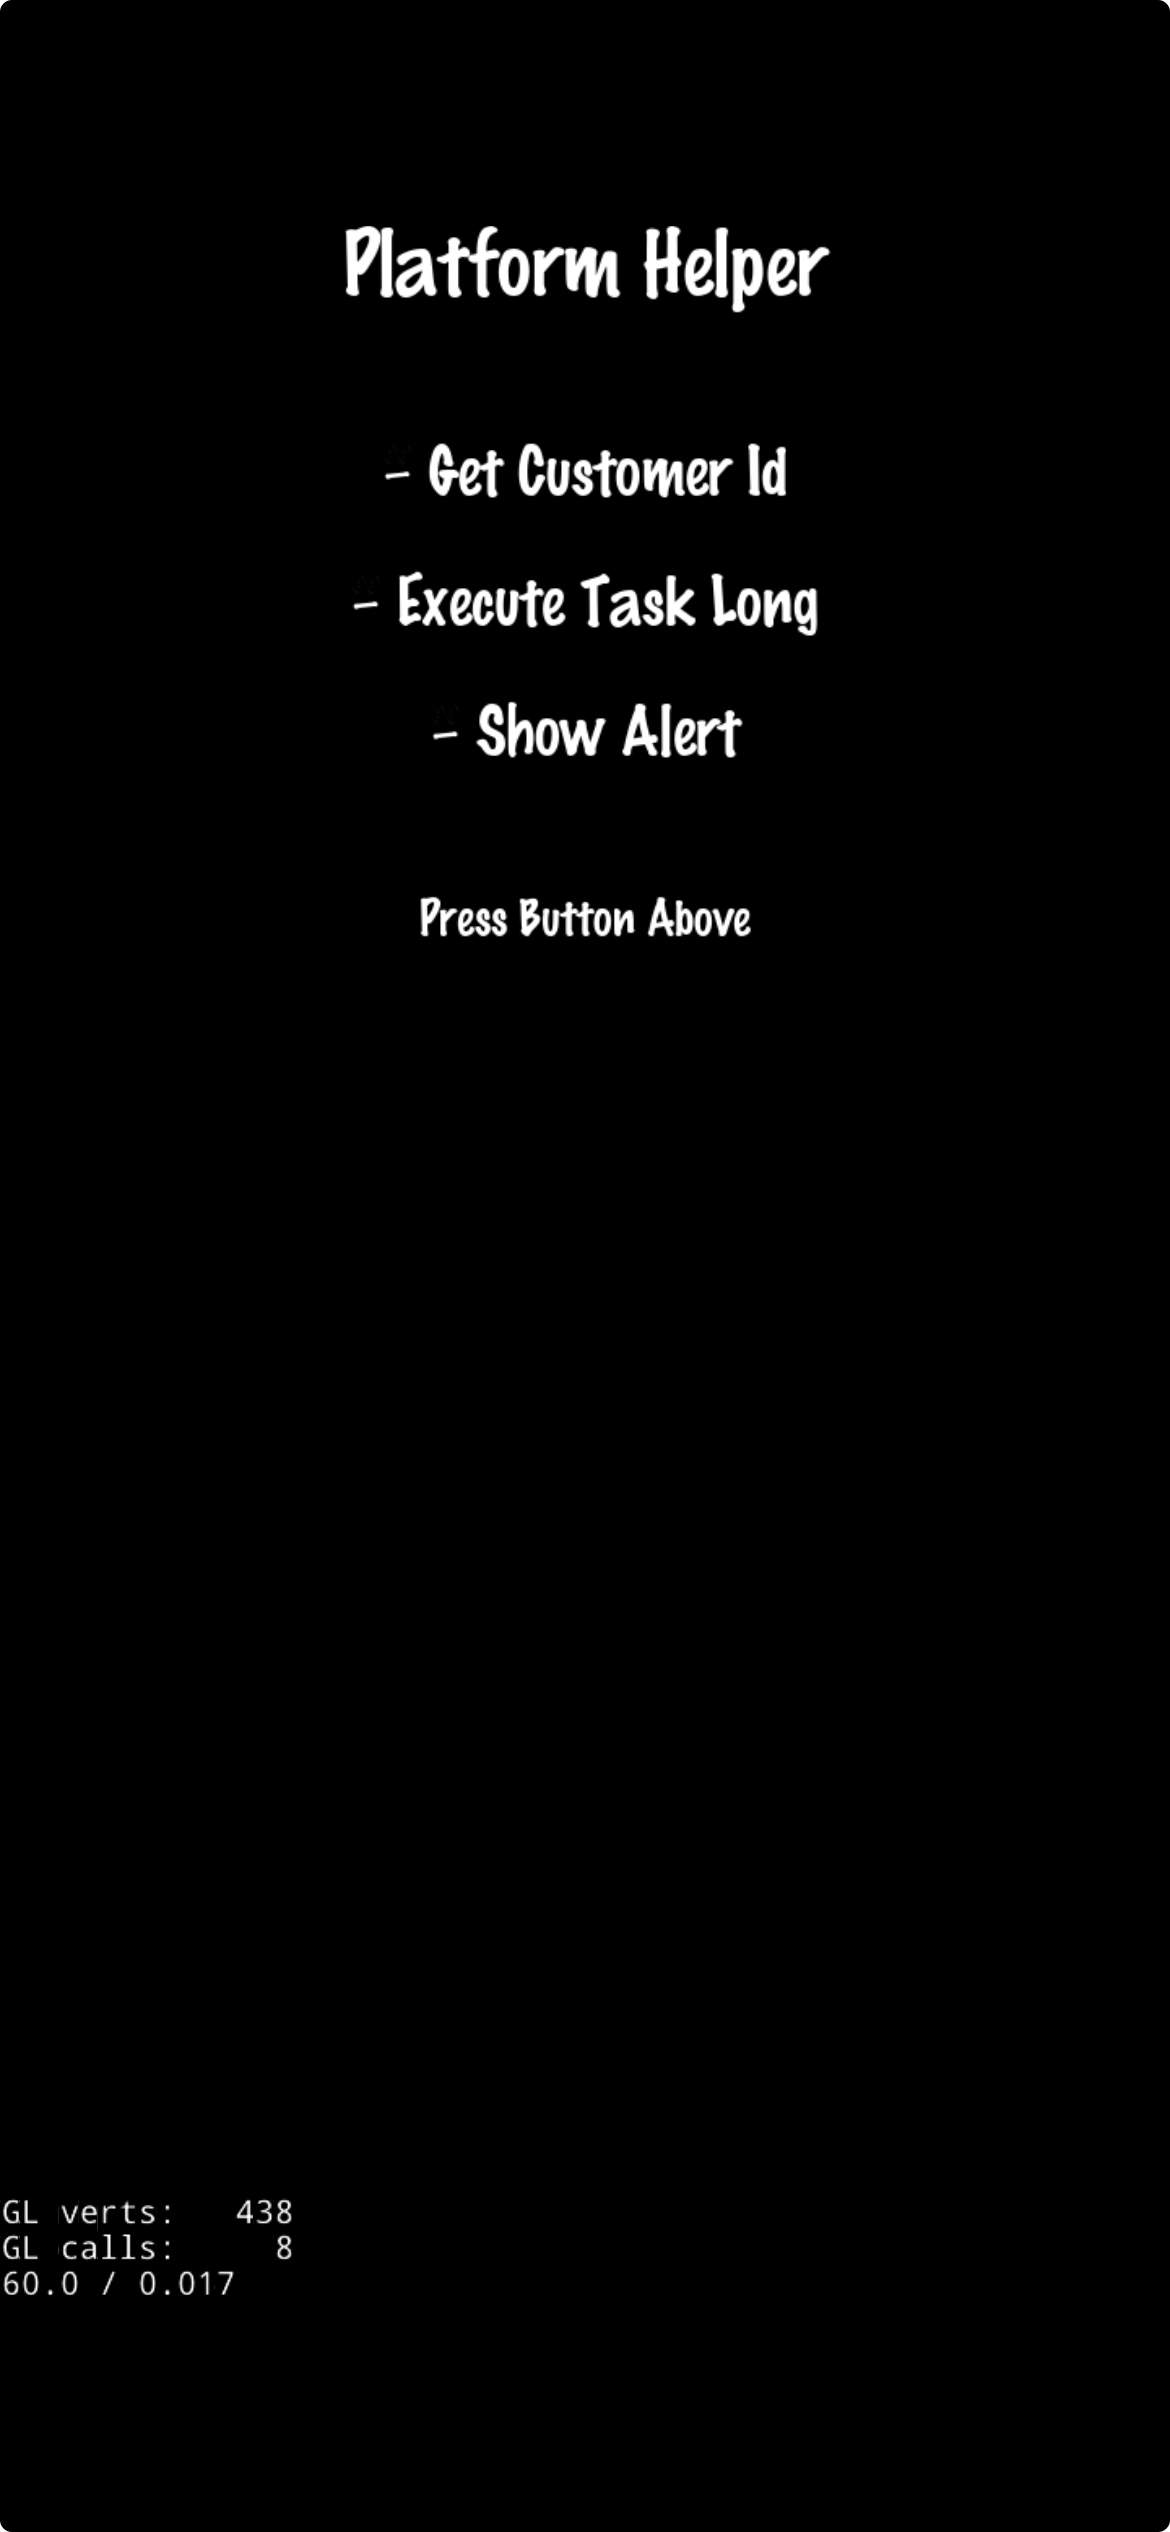
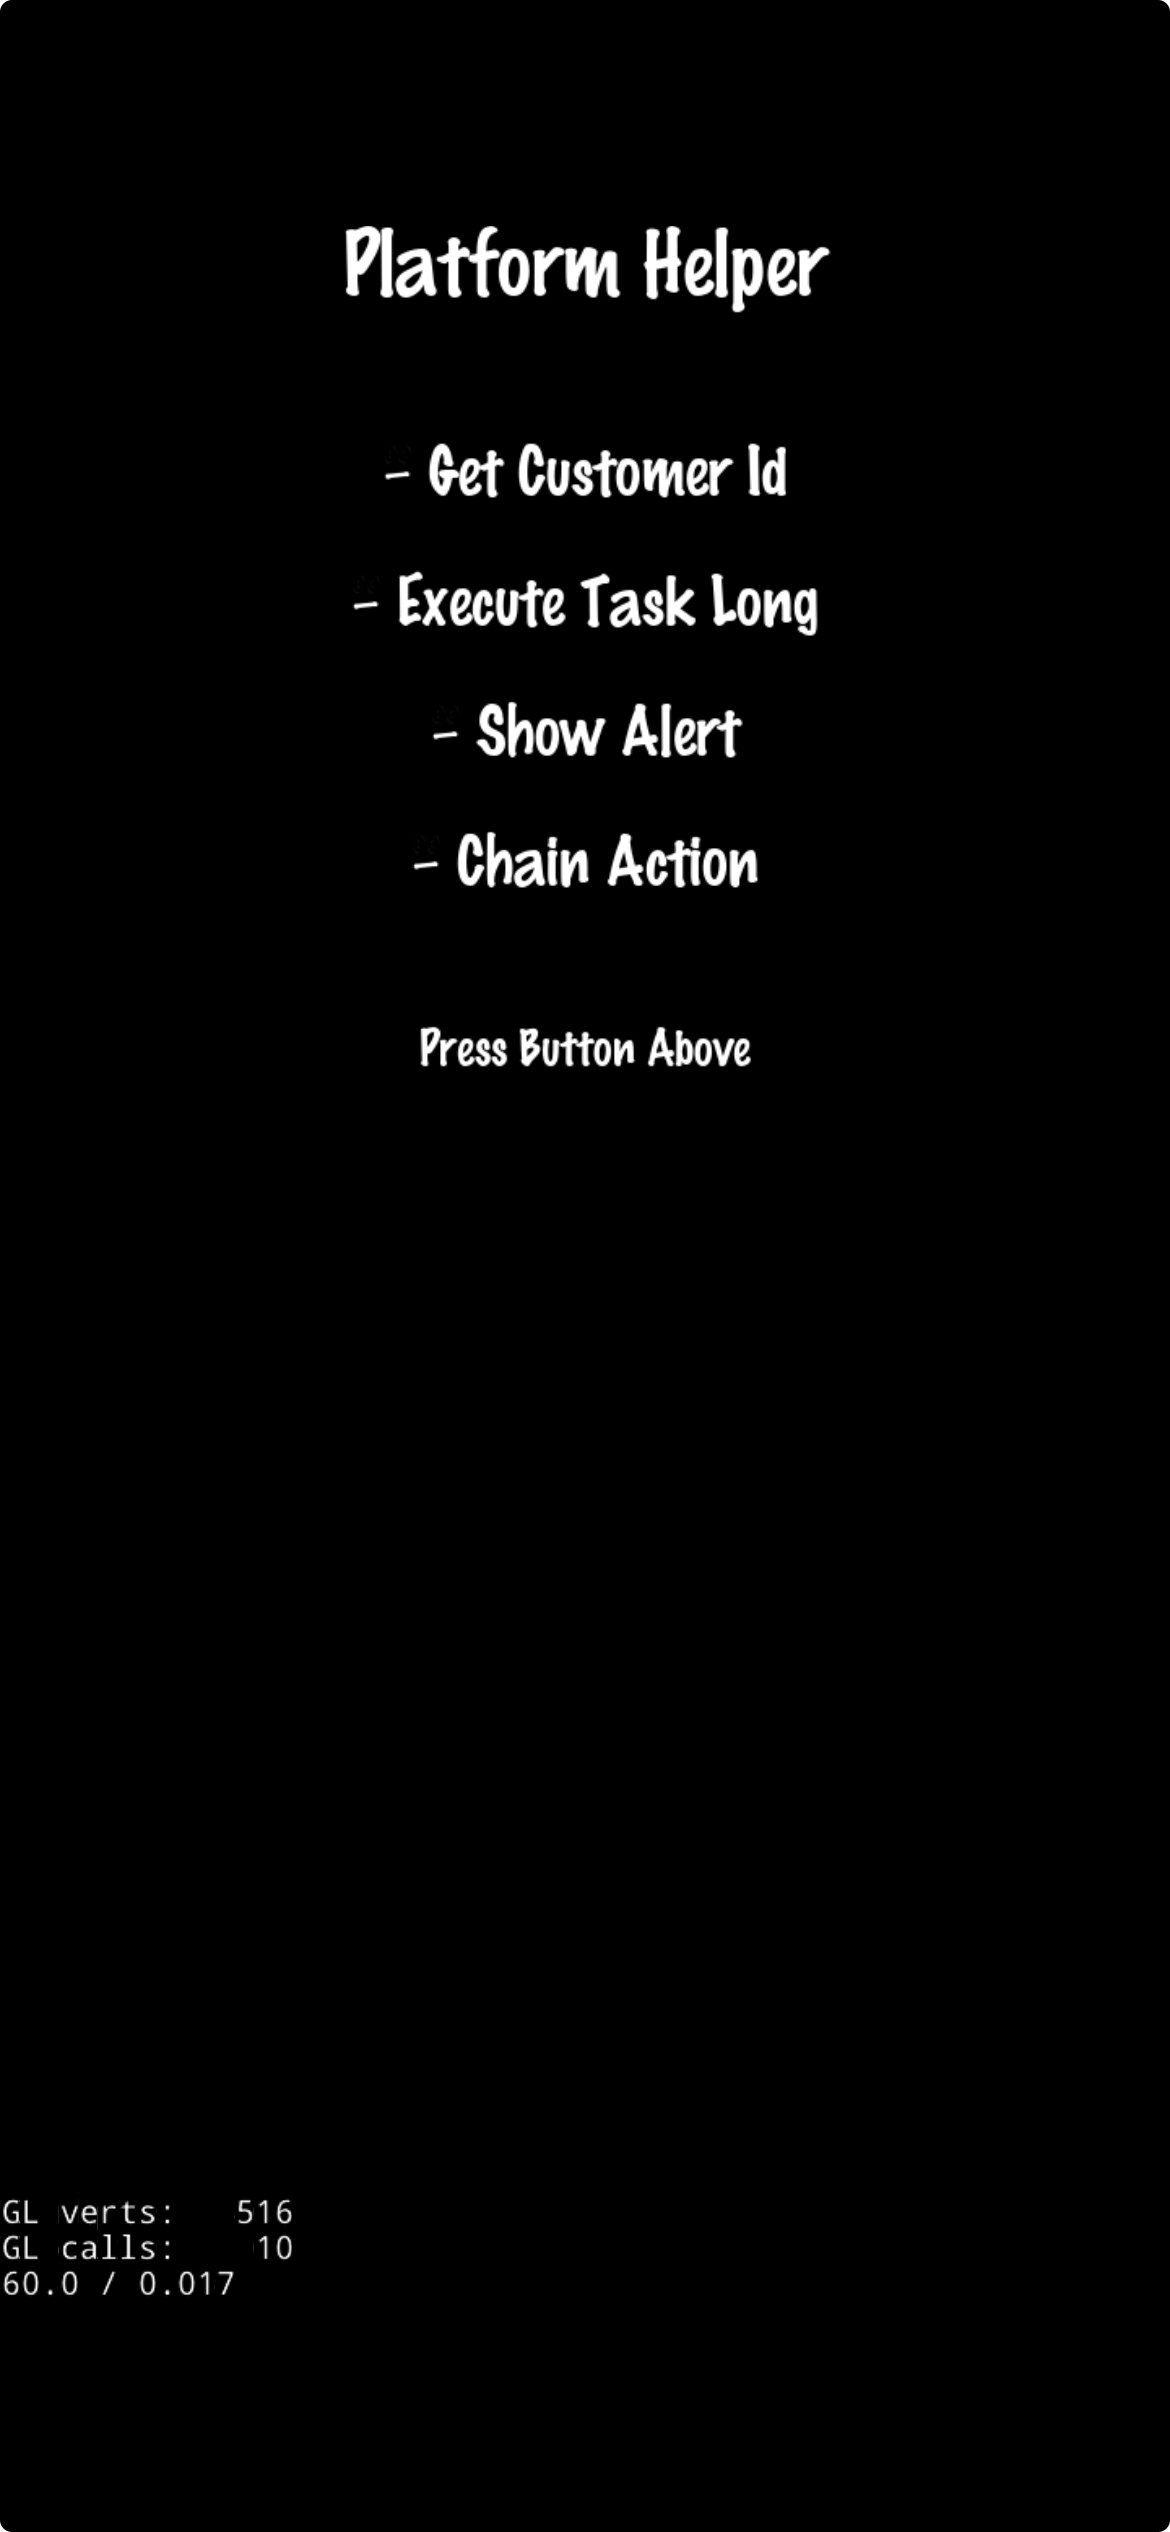
add chain example

Changed region(s): [[0.3385, 0.312, 0.6462, 0.3744], [0.3385, 0.4056, 0.6462, 0.4368], [0.2154, 0.8736, 0.2462, 0.9048]]

diff --git a/proj.android/app/src/dev/axmol/platform/PlatformDelegate.java b/proj.android/app/src/dev/axmol/platform/PlatformDelegate.java
@@ -33,6 +33,14 @@ public class PlatformDelegate {
             case "show-alert":
                 onActionShowAlert(action, data, contextAddress);
                 break;
+
+            case "chain-step1":
+                onActionChainStep1(action, data, contextAddress);
+                break;
+
+            case "chain-step2":
+                onActionChainStep2(action, data, contextAddress);
+                break;
         }
     }
 
@@ -114,6 +122,78 @@ public class PlatformDelegate {
         } else {
             nativeOnActionComplete("Clicked on: NO", contextAddress);
         }
+    }
+
+    private static void onActionChainStep1(String action, String data, final long contextAddress) {
+        new AsyncTask<Void, Void, String>() {
+            @Override
+            protected String doInBackground(Void... voids) {
+                try {
+                    URL url = new URL("https://httpbin.org/get");
+                    HttpURLConnection urlConnection = (HttpURLConnection) url.openConnection();
+                    try {
+                        BufferedReader in = new BufferedReader(new InputStreamReader(urlConnection.getInputStream()));
+                        StringBuilder response = new StringBuilder();
+                        String inputLine;
+                        while ((inputLine = in.readLine()) != null) {
+                            response.append(inputLine);
+                        }
+                        in.close();
+                        return response.toString();
+                    } finally {
+                        urlConnection.disconnect();
+                    }
+                } catch (Exception e) {
+                    Log.e("PLATFORM-HELPER", "Error in chain-step1", e);
+                    return null;
+                }
+            }
+
+            @Override
+            protected void onPostExecute(String result) {
+                if (result != null) {
+                    nativeOnActionComplete(result, contextAddress);
+                } else {
+                    nativeOnActionComplete("no-response", contextAddress);
+                }
+            }
+        }.execute();
+    }
+
+    private static void onActionChainStep2(String action, String data, final long contextAddress) {
+        new AsyncTask<Void, Void, String>() {
+            @Override
+            protected String doInBackground(Void... voids) {
+                try {
+                    URL url = new URL("https://httpbin.org/get");
+                    HttpURLConnection urlConnection = (HttpURLConnection) url.openConnection();
+                    try {
+                        BufferedReader in = new BufferedReader(new InputStreamReader(urlConnection.getInputStream()));
+                        StringBuilder response = new StringBuilder();
+                        String inputLine;
+                        while ((inputLine = in.readLine()) != null) {
+                            response.append(inputLine);
+                        }
+                        in.close();
+                        return response.toString();
+                    } finally {
+                        urlConnection.disconnect();
+                    }
+                } catch (Exception e) {
+                    Log.e("PLATFORM-HELPER", "Error in chain-step2", e);
+                    return null;
+                }
+            }
+
+            @Override
+            protected void onPostExecute(String result) {
+                if (result != null) {
+                    nativeOnActionComplete(result, contextAddress);
+                } else {
+                    nativeOnActionComplete("no-response", contextAddress);
+                }
+            }
+        }.execute();
     }
 
     public static native void nativeOnActionComplete(String result, long contextAddress);

diff --git a/Platform/ios/PlatformDelegate.mm b/Platform/ios/PlatformDelegate.mm
@@ -22,6 +22,10 @@ static PlatformDelegate *instance = nil;
         [self onActionStartTaskLong:data callback:callback];
     } else if ([action isEqualToString:@"show-alert"]) {
         [self onActionShowAlert:data callback:callback];
+    } else if ([action isEqualToString:@"chain-step1"]) {
+        [self onActionChainStep1:data callback:callback];
+    } else if ([action isEqualToString:@"chain-step2"]) {
+        [self onActionChainStep2:data callback:callback];
     }
 }
 
@@ -43,7 +47,7 @@ static PlatformDelegate *instance = nil;
 
     NSURLSessionDataTask *dataTask = [session dataTaskWithURL:url completionHandler:^(NSData *data, NSURLResponse *response, NSError *error) {
         if (error) {
-            NSLog(@"Erro na requisição: %@", error.localizedDescription);
+            NSLog(@"Request error: %@", error.localizedDescription);
             callback(nil);
             return;
         }
@@ -119,6 +123,52 @@ static PlatformDelegate *instance = nil;
             instance.callback(@"Clicked on: NO");
         }
     }
+}
+
++ (void)onActionChainStep1:(NSString *)data callback:(void(^)(NSString *))callback {
+    NSURL *url = [NSURL URLWithString:@"https://httpbin.org/get"];
+    NSURLSession *session = [NSURLSession sharedSession];
+
+    NSURLSessionDataTask *dataTask = [session dataTaskWithURL:url completionHandler:^(NSData *data, NSURLResponse *response, NSError *error) {
+        if (error) {
+            NSLog(@"Request error: %@", error.localizedDescription);
+            callback(nil);
+            return;
+        }
+
+        if (data) {
+            NSString *responseBody = [[NSString alloc] initWithData:data encoding:NSUTF8StringEncoding];
+
+            callback(responseBody);
+        } else {
+            callback(@"no-response");
+        }
+    }];
+
+    [dataTask resume];
+}
+
++ (void)onActionChainStep2:(NSString *)data callback:(void(^)(NSString *))callback {
+    NSURL *url = [NSURL URLWithString:@"https://httpbin.org/get"];
+    NSURLSession *session = [NSURLSession sharedSession];
+
+    NSURLSessionDataTask *dataTask = [session dataTaskWithURL:url completionHandler:^(NSData *data, NSURLResponse *response, NSError *error) {
+        if (error) {
+            NSLog(@"Request error: %@", error.localizedDescription);
+            callback(nil);
+            return;
+        }
+
+        if (data) {
+            NSString *responseBody = [[NSString alloc] initWithData:data encoding:NSUTF8StringEncoding];
+
+            callback(responseBody);
+        } else {
+            callback(@"no-response");
+        }
+    }];
+
+    [dataTask resume];
 }
 
 @end

diff --git a/Source/MainScene.cpp b/Source/MainScene.cpp
@@ -84,8 +84,39 @@ bool MainScene::init() {
     });
     addChild(btShowAlert);
 
-    currentY -= btShowAlert->getContentSize().height + (padding * 2);
+    currentY -= btShowAlert->getContentSize().height + padding;
 
+    // chain action
+    auto btChainAction = Button::create();
+    btChainAction->setTitleText("> Chain Action");
+    btChainAction->setTitleFontName("fonts/Marker Felt.ttf");
+    btChainAction->setTitleFontSize(38);
+    btChainAction->setPosition(Vec2(origin.x + visibleSize.width / 2, currentY - btChainAction->getContentSize().height / 2));
+    btChainAction->addClickEventListener([&](Object *sender) {
+        infoLabel->setString("Loading...");
+
+        std::string jsonString = R"({"step1": true})";
+
+        PlatformHelper::shared()->performAction("chain-step1", jsonString, [this](std::string result) {
+            ax::Director::getInstance()->getScheduler()->runOnAxmolThread([=, this]() {
+                infoLabel->setString("Response Chain Step 1:\n\n" + result);
+                
+                infoLabel->setString("Loading step 2...");
+                
+                std::string jsonString = R"({"step2": true})";
+
+                PlatformHelper::shared()->performAction("chain-step2", jsonString, [this](std::string result) {
+                    ax::Director::getInstance()->getScheduler()->runOnAxmolThread([=, this]() {
+                        infoLabel->setString("Response Chain Step 2:\n\n" + result);
+                    });
+                });
+            });
+        });
+    });
+    addChild(btChainAction);
+
+    currentY -= btChainAction->getContentSize().height + (padding * 2);
+    
     // info label
     infoLabel = Label::createWithTTF("", "fonts/Marker Felt.ttf", 28);
     infoLabel->setPosition(Vec2(origin.x + visibleSize.width / 2, currentY - infoLabel->getContentSize().height / 2));

diff --git a/Platform/wasm/PlatformHelper.cpp b/Platform/wasm/PlatformHelper.cpp
@@ -20,6 +20,10 @@ void PlatformHelper::performAction(const std::string &action, const std::string 
         onActionStartTaskLong(data, callback);
     } else if (action == "show-alert") {
         onActionShowAlert(data, callback);
+    } else if (action == "chain-step1") {
+        onActionChainStep1(data, callback);
+    } else if (action == "chain-step2") {
+        onActionChainStep2(data, callback);
     }
 }
 
@@ -84,6 +88,38 @@ void PlatformHelper::onActionShowAlert(const std::string &data, std::function<vo
         }
     },
                 data.c_str());
+}
+
+void PlatformHelper::onActionChainStep1(const std::string &data, std::function<void(std::string)> callback) {
+    // clang-format off
+    EM_ASM({
+        var url = "https://httpbin.org/get";
+        fetch(url)
+            .then(response => response.text())
+            .then(data => {
+                Module.platformHelperJsCallback(data);
+            })
+            .catch(error => {
+                Module.platformHelperJsCallback("no-response");
+            });
+    });
+    // clang-format on
+}
+
+void PlatformHelper::onActionChainStep2(const std::string &data, std::function<void(std::string)> callback) {
+    // clang-format off
+    EM_ASM({
+        var url = "https://httpbin.org/get";
+        fetch(url)
+            .then(response => response.text())
+            .then(data => {
+                Module.platformHelperJsCallback(data);
+            })
+            .catch(error => {
+                Module.platformHelperJsCallback("no-response");
+            });
+    });
+    // clang-format on
 }
 
 void platformHelperJsCallback(std::string value) {

diff --git a/Platform/wasm/PlatformHelper.hpp b/Platform/wasm/PlatformHelper.hpp
@@ -18,4 +18,6 @@ private:
     void onActionGetCustomerId(const std::string &data, std::function<void(std::string)> callback);
     void onActionStartTaskLong(const std::string &data, std::function<void(std::string)> callback);
     void onActionShowAlert(const std::string &data, std::function<void(std::string)> callback);
+    void onActionChainStep1(const std::string &data, std::function<void(std::string)> callback);
+    void onActionChainStep2(const std::string &data, std::function<void(std::string)> callback);
 };
